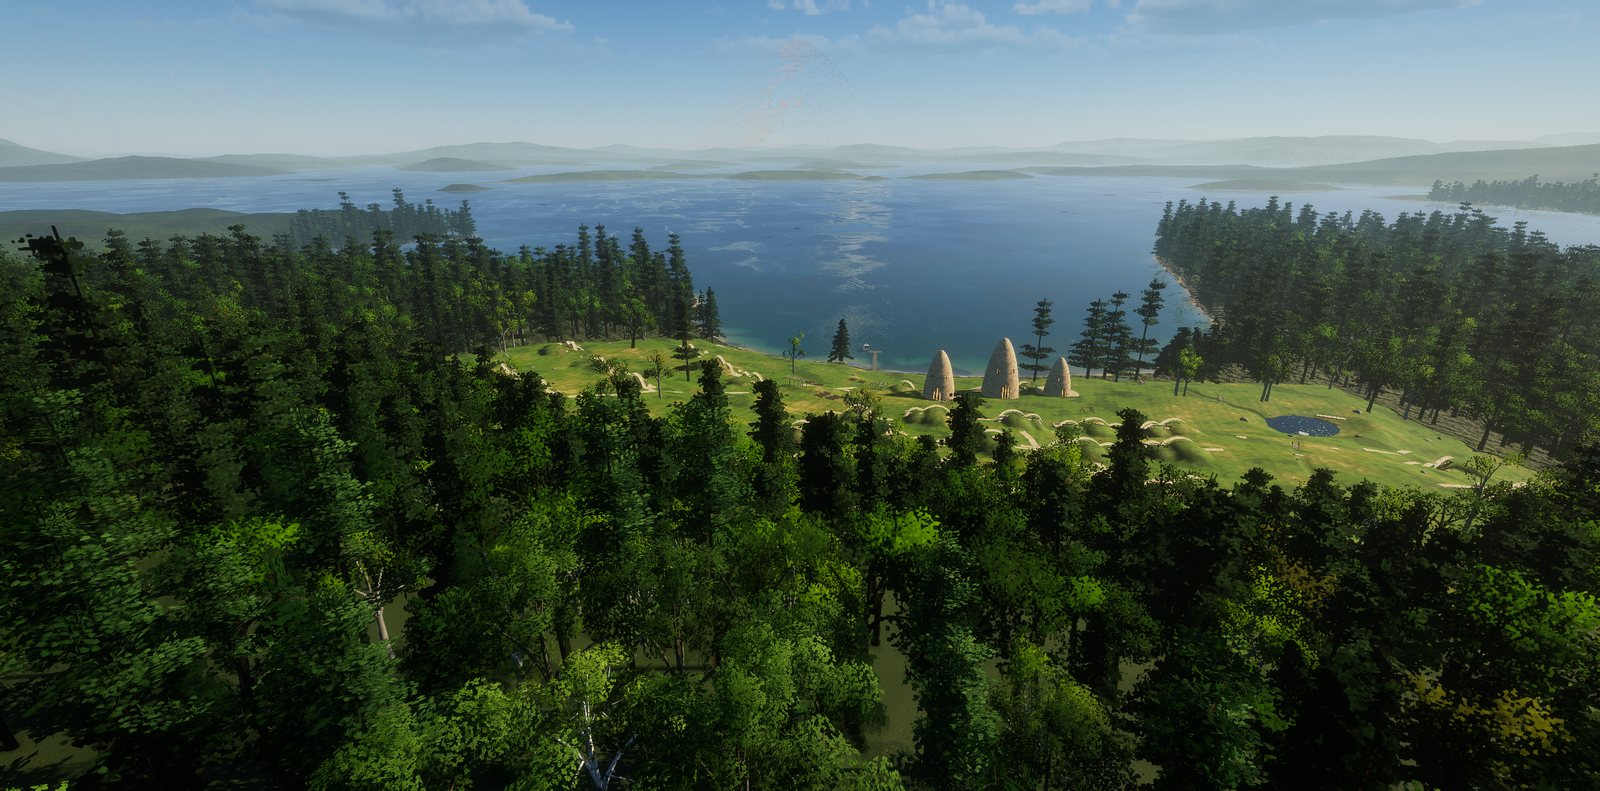
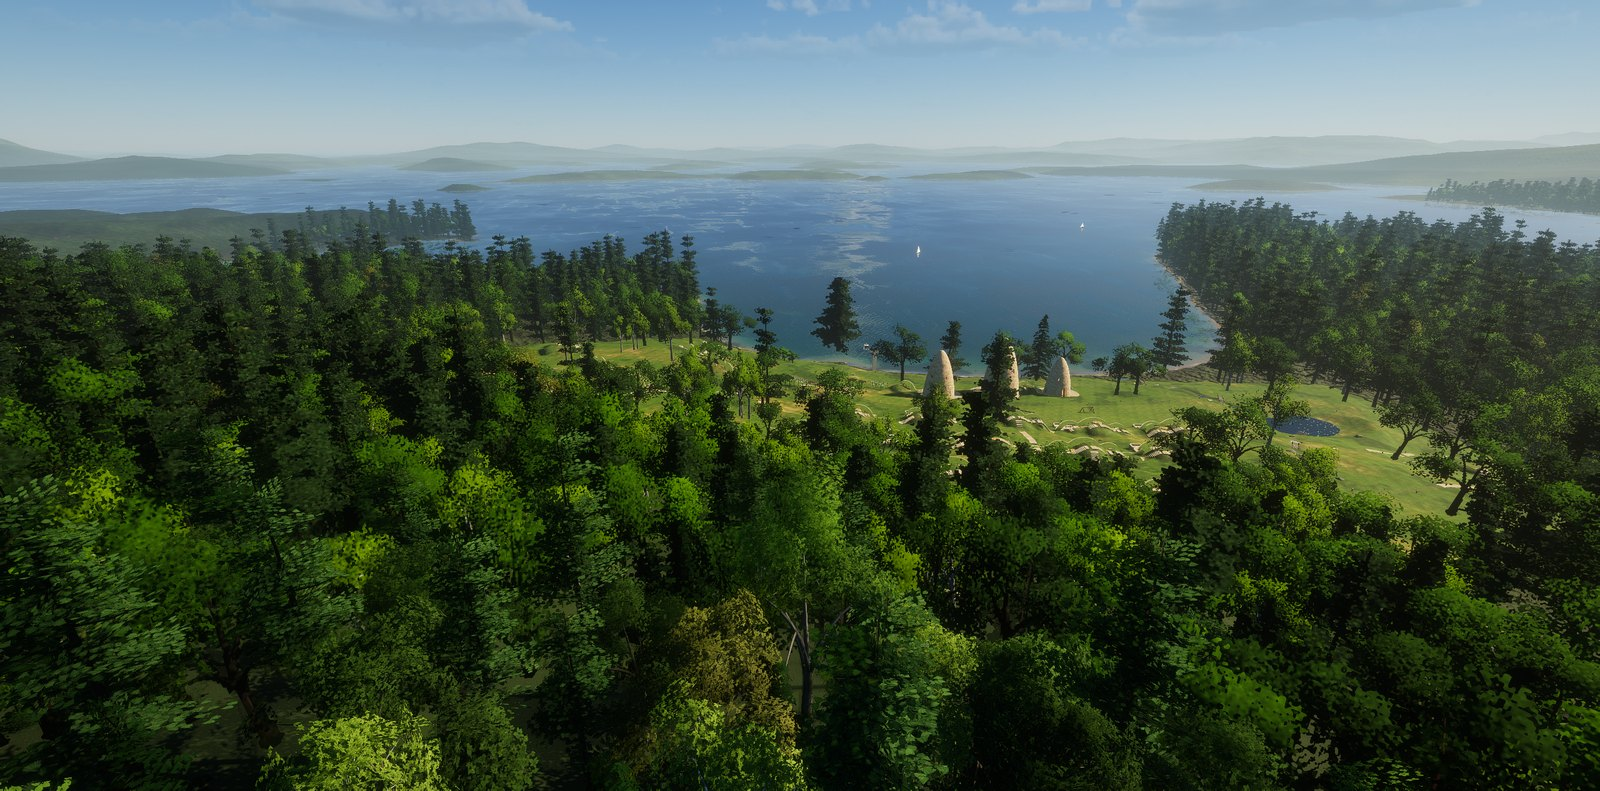
The village among trees; the green as a mown lawn
The layout image shows the homes standing among broad, rounded trees; ours stood
in a bare field. The clearing now grows clumps of open-grown oaks and maples with
birches and a few pines, allowed closer to the homes, the green kept open. Every
broadleaf crown carries about a third more leaf clusters so it reads as a solid,
rounded crown (about +1% GPU time over the benchmark views).

Designed vistas keep the corridors from the starting point to the three halls
free of trees, so the opening view still shows them.

The green was shaded like tall meadow, whose dark sward base made it a dark olive
carpet. The terrain now gets the green's outline and shades it as a dense, even
lawn with little relief; the lawn's grass blades are brighter to match.

Key art and README screenshots re-rendered.

diff --git a/src/world/Terrain.js b/src/world/Terrain.js
@@ -1,4 +1,4 @@
-import { Mesh, Vector2, Vector3 } from '../engine/index.js';
+import { Mesh, Vector2, Vector3, Vector4 } from '../engine/index.js';
 import { ShaderModule } from '../engine/gpu/Shader.js';
 import { CDLOD } from '../core/CDLOD.js';
 import { standard } from '../materials/Materials.js';
@@ -62,10 +62,16 @@ export class Terrain {
 				viewPos: [ 'vec3f', this.uViewPos.value ],
 				wetDarken: [ 'f32', 0.58 ],
 				gustOffset: [ 'vec2f', this.gustOffset ],
+				// the village's mown green (setLawn): outline, two points per vec4; x = point count;
+				// its bounds (x0, z0, x1, z1) padded by the edge's falloff
+				lawnPoly: [ 'vec4f[8]', new Float32Array( 32 ) ],
+				lawnInfo: [ 'vec4f', new Vector4() ],
+				lawnBox: [ 'vec4f', new Vector4( 1e9, 1e9, - 1e9, - 1e9 ) ],
 			},
 			attributes: { nodeData: 'vec4f' },
 		} );
 		this.params = { wetDarken: mat.uniforms.wetDarken };
+		this.lawnUniforms = { poly: mat.uniforms.lawnPoly, info: mat.uniforms.lawnInfo, box: mat.uniforms.lawnBox };
 		this.uViewPos = mat.uniforms.viewPos;
 
 		mat.vertex = /* wgsl */`
@@ -108,6 +114,27 @@ export class Terrain {
 		mat.defines.MATERIAL_SUN_MODULATION = this.sunShadow ? 1 : 0;
 		mat.surface = TERRAIN_SURFACE;
 		mat.needsUpdate = true;
+
+	}
+
+	// The village's mown green: [[x, z], ...] (up to 16 points), shaded as a dense, even lawn rather than
+	// tall meadow (its edge falls off over -3..+1.5 m, as Settlement.lawnAt).
+	setLawn( points ) {
+
+		const U = this.lawnUniforms, n = Math.min( points.length, 16 );
+		const poly = new Float32Array( 32 );
+		let x0 = Infinity, z0 = Infinity, x1 = - Infinity, z1 = - Infinity;
+		for ( let i = 0; i < n; i ++ ) {
+
+			const [ x, z ] = points[ i ];
+			poly[ i * 2 ] = x; poly[ i * 2 + 1 ] = z;
+			x0 = Math.min( x0, x ); z0 = Math.min( z0, z ); x1 = Math.max( x1, x ); z1 = Math.max( z1, z );
+
+		}
+
+		U.poly.value = poly;
+		U.info.value = new Vector4( n, 0, 0, 0 );
+		U.box.value = new Vector4( x0 - 2, z0 - 2, x1 + 2, z1 + 2 );
 
 	}
 
@@ -423,12 +450,34 @@ const TERRAIN_SURFACE = /* wgsl */`
 		let V = normalize( frame.cameraPos - p );
 		let NdV = sat( dot( N0, V ) );
 		let mt = terrainMeadowTone( macroA, macroB, slope, N0.z, dM.w * 0.65 + dN.w * 0.35, true );
+		// the village's mown green (Terrain.setLawn): signed distance to its outline (< 0 inside)
+		var lawnD = 1e3;
+		if ( xz.x > mat.lawnBox.x && xz.y > mat.lawnBox.y && xz.x < mat.lawnBox.z && xz.y < mat.lawnBox.w ) {
+			let n = u32( mat.lawnInfo.x );
+			var d2 = 1e9;
+			var inside = false;
+			for ( var i = 0u; i < n; i++ ) {
+				let j = select( i - 1u, n - 1u, i == 0u );
+				let va = mat.lawnPoly[ i >> 1u ]; let vb = mat.lawnPoly[ j >> 1u ];
+				let a = select( va.xy, va.zw, ( i & 1u ) == 1u );
+				let b = select( vb.xy, vb.zw, ( j & 1u ) == 1u );
+				let e = b - a; let w = xz - a;
+				let q = w - e * sat( dot( w, e ) / max( dot( e, e ), 1e-6 ) );
+				d2 = min( d2, dot( q, q ) );
+				if ( ( a.y > xz.y ) != ( b.y > xz.y ) && xz.x < ( b.x - a.x ) * ( xz.y - a.y ) / ( b.y - a.y ) + a.x ) { inside = !inside; }
+			}
+			lawnD = select( sqrt( d2 ), - sqrt( d2 ), inside );
+		}
+		let greenK = 1.0 - smoothstep( -3.0, 1.5, lawnD );
+		// mown: fresh, even green (a little mottled by the clover and the mower), no tussocks or straw
+		let mownTone = mix( ${ S( 0.28, 0.39, 0.13 ) }, ${ S( 0.35, 0.43, 0.16 ) }, smoothstep( 0.35, 0.65, dM.w * 0.6 + macroB * 0.4 ) )
+			* ( ( dN.w - 0.5 ) * 0.12 + 1.0 );
 		// clumps (1-3 m) and tussocks, blade-scale grain
 		let clump = dM.w * 0.6 + dN.y * 0.4;
 		// seen from afar the tussocks and their shadowed gaps are what makes tall grass read as
 		// grass (not lawn): the clump contrast grows with distance as the blades fade out
-		let clumpK = mix( 0.34, 0.95, smoothstep( 40.0, 140.0, camDist ) );
-		var lawn = mt.tone * ( ( clump - 0.5 ) * clumpK + 1.0 ) * ( ( dF.y - 0.4 ) * 0.22 + 1.0 );
+		let clumpK = mix( 0.34, 0.95, smoothstep( 40.0, 140.0, camDist ) ) * ( 1.0 - greenK * 0.75 );
+		var lawn = mix( mt.tone, mownTone, greenK ) * ( ( clump - 0.5 ) * clumpK + 1.0 ) * ( ( dF.y - 0.4 ) * 0.22 + 1.0 );
 		lawn = lawn * mix( 1.0, smoothstep( 0.25, 0.55, dN.y * 0.5 + dM.y * 0.5 ) * 0.35 + 0.72, smoothstep( 50.0, 160.0, camDist ) );
 		// grass combed along the wind: long streaks (anisotropic sample of the fbm channel)
 		// (comb and gust only where the lawn shows: not under full forest, sand or water)
@@ -441,7 +490,7 @@ const TERRAIN_SURFACE = /* wgsl */`
 		}
 		// seen from above the dark soil shows between the clumps; at grazing angles blade sides
 		// cover everything (lighter, more saturated)
-		let gapK = smoothstep( 0.3, 0.95, NdV ) * smoothstep( 0.62, 0.3, clump );
+		let gapK = smoothstep( 0.3, 0.95, NdV ) * smoothstep( 0.62, 0.3, clump ) * ( 1.0 - greenK );
 		lawn = mix( lawn, MEADOW_soil, gapK * 0.45 );
 		lawn = mix( lawn, terrainSaturation( lawn * 1.12, 1.15 ), smoothstep( 0.45, 0.1, NdV ) * 0.6 );
 		// travelling gusts flatten the grass: the paler blade backs show as waves (same gust
@@ -452,14 +501,16 @@ const TERRAIN_SURFACE = /* wgsl */`
 			lawn = mix( lawn, lawn * vec3f( 1.25, 1.22, 1.06 ) + 0.01, gust * 0.6 );
 		}
 		// bare trodden soil in places, sandy soil toward the beach
-		lawn = mix( lawn, ${ S( 0.4, 0.33, 0.23 ) }, smoothstep( 0.72, 0.84, dN.y + ( dM.y - 0.5 ) * 0.5 ) * 0.25 );
+		lawn = mix( lawn, ${ S( 0.4, 0.33, 0.23 ) }, smoothstep( 0.72, 0.84, dN.y + ( dM.y - 0.5 ) * 0.5 ) * 0.25 * ( 1.0 - greenK * 0.8 ) );
 		lawn = mix( lawn, ${ S( 0.60, 0.52, 0.38 ) }, sat( sp.x * 1.6 ) * smoothstep( 0.45, 0.62, dN.z + dM.y * 0.3 ) * 0.7 );
 		// inside the geometric grass field (GrassField) the ground is only seen between the blades:
 		// the shaded base of the sward, dark and brownish with dead leaves; it hands over to the
 		// sward's own look (above) where the blades thin out
 		let grassHere = smoothstep( 2.5, 4.5, h ) * ( 1.0 - smoothstep( 0.45, 0.85, jungleW ) ) * ( 1.0 - sat( sp.x * 1.6 ) );
 		let fieldK = ( 1.0 - smoothstep( ${ GRASS_FADE[ 0 ].toFixed( 1 ) }, ${ GRASS_FADE[ 1 ].toFixed( 1 ) }, length( p.xz - frame.cameraPos.xz ) ) ) * grassHere;
-		let swardBase = mix( mt.tone * 0.4, MEADOW_soil, 0.4 ) * ( ( dN.y - 0.45 ) * 0.6 + 1.0 ) * ( ( dF.y - 0.4 ) * 0.3 + 1.0 );
+		var swardBase = mix( mt.tone * 0.4, MEADOW_soil, 0.4 ) * ( ( dN.y - 0.45 ) * 0.6 + 1.0 ) * ( ( dF.y - 0.4 ) * 0.3 + 1.0 );
+		// a lawn is dense to the ground: between its short blades more green blades, not soil
+		swardBase = mix( swardBase, mownTone * ( ( dF.y - 0.4 ) * 0.25 + 0.82 ), greenK );
 		lawn = mix( lawn, swardBase, fieldK * 0.85 );
 		let litter = mix( ${ S( 0.24, 0.16, 0.09 ) }, ${ S( 0.38, 0.28, 0.16 ) }, dF.y );
 		var jungle = mix( ${ S( 0.13, 0.19, 0.06 ) }, litter, smoothstep( 0.42, 0.6, dN.y + ( dM.y - 0.5 ) * 0.3 ) );
@@ -595,8 +646,8 @@ const TERRAIN_SURFACE = /* wgsl */`
 			+ rill * 0.006 * rillK;
 		// seagrass canopy stands proud of the sand with a ragged scarp; rubble is knobbly
 		let seabedH = seagrassW * ( blades * 0.05 + 0.08 ) + rubbleW * ( dN.x * 0.07 + dF.x * 0.015 );
-		let groundH = dN.y * mix( 0.05, 0.035, jungleW ) + dF.y * 0.012 + dM.y * 0.045 + canopyH * canopyW * 2.5
-			+ clump * 0.12 * ( 1.0 - jungleW ) + comb * 0.03 * ( 1.0 - jungleW );
+		let groundH = ( dN.y * mix( 0.05, 0.035, jungleW ) + dF.y * 0.012 ) * ( 1.0 - greenK * 0.6 ) + dM.y * 0.045 + canopyH * canopyW * 2.5
+			+ ( clump * 0.12 + comb * 0.03 ) * ( 1.0 - jungleW ) * ( 1.0 - greenK * 0.8 );
 		let screeH = dN.z * 0.04 + dM.x * 0.06;
 		let dirtH = dN.z * 0.012 + dN.y * 0.01;
 		var hd = mix( mix( groundH, screeH, screeW ), dirtH, pathW );

diff --git a/src/world/vegetation/ForestScatter.js b/src/world/vegetation/ForestScatter.js
@@ -14,7 +14,8 @@ import { PINE_H, HEMLOCK_H } from './ConiferGeometry.js';
 //   shrubs       mountain laurel and lowbush blueberry in the forest gaps, hobblebush in the damp; and
 //                round the homes
 //   ferns        the forest floor (hay-scented and cinnamon ferns in drifts), the village's banks
-// In the village clearing: scattered birches, a few pines and oaks, shrubs and ferns along the homes.
+// In the village clearing: clumps of open-grown oaks and maples with broad, low crowns, birches, a few
+// pines; the mown green kept open; shrubs and ferns along the homes.
 //
 // Records: { x, y, z, s, sy, yaw, la, l, H, seed } as the instanced vegetation expects (VegInstances):
 // canopy trees l = sy, shrubs l = -sy; pines l = sy, hemlocks l = -sy (the impostors' group flag).
@@ -91,6 +92,21 @@ class Occupancy {
 
 }
 
+// inside one of the village's designed vistas (corridors kept free of trees)?
+function inVista( vistas, x, z ) {
+
+	for ( const v of vistas || [] ) {
+
+		const [ ax, az ] = v.from, ex = v.to[ 0 ] - ax, ez = v.to[ 1 ] - az;
+		const t = clamp( ( ( x - ax ) * ex + ( z - az ) * ez ) / ( ex * ex + ez * ez ), 0, 1 );
+		if ( Math.hypot( x - ax - ex * t, z - az - ez * t ) < v.w ) return true;
+
+	}
+
+	return false;
+
+}
+
 function scatter( rand, x0, z0, x1, z1, step, fn ) {
 
 	for ( let z = z0; z < z1; z += step ) for ( let x = x0; x < x1; x += step ) fn( x + rand() * step, z + rand() * step );
@@ -149,13 +165,15 @@ export function scatterForest( site, seed = 2026 ) {
 		if ( c.h < 0.35 ) return;
 		const stand = N.fbm( x / 140, z / 140, 3 ); // stands of one character
 		const patch = N2.fbm( x / 37, z / 37, 2 );
-		// in the open (the village clearing, the roofs, the green) only scattered trees
+		// in the open (the village clearing, the roofs) trees in clumps and groves with glades between
+		// (docs/REFERENCE.md: the village stands among trees); the mown green stays open but for its edges
 		const forest = 1 - smoothstep( 0.25, 0.75, c.open );
-		let p = 0.92 * forest + ( 1 - forest ) * 0.035 * smoothstep( - 0.2, 0.3, patch );
+		const lawn = site.inLawn ? site.inLawn( x, z ) : 0;
+		let p = 0.92 * forest + ( 1 - forest ) * 0.2 * smoothstep( - 0.3, 0.3, patch ) * ( 1 - lawn * 0.95 );
 		// thinner on the ledges and steep ground
 		p *= 1 - smoothstep( 0.3, 0.6, c.rock ) * 0.6 - smoothstep( 0.45, 0.62, c.slope ) * 0.5;
 		if ( rand() > p ) return;
-		if ( ! ok( x, z, forest > 0.5 ? 1.5 : 4 ) ) return;
+		if ( ! ok( x, z, forest > 0.5 ? 1.5 : 2.5 ) || inVista( site.vistas, x, z ) ) return;
 
 		// site affinities
 		const shoreK = 1 - smoothstep( 6, 45, c.shore );
@@ -166,8 +184,8 @@ export function scatterForest( site, seed = 2026 ) {
 		let wHard = 0.65 * ( 1 - shoreK * 0.5 ) * ( 1 - damp * 0.3 );
 		if ( forest < 0.5 ) {
 
-			// the clearing: birches above all, a few pines and oaks
-			wPine *= 0.5; wHem *= 0.08; wHard *= 1.3;
+			// the clearing: hardwoods above all, a few pines
+			wPine *= 0.3; wHem *= 0.05; wHard *= 1.6;
 
 		}
 
@@ -201,15 +219,17 @@ export function scatterForest( site, seed = 2026 ) {
 			// hardwoods: birch at the edges, on rocky ground and in the clearing; red oak on the dry slopes;
 			// maple and beech elsewhere
 			const edge = smoothstep( 0.1, 0.5, c.open ) * ( 1 - smoothstep( 0.6, 0.95, c.open ) );
-			const wB = 0.12 + edge * 1.2 + ( forest < 0.5 ? 1.4 : 0 ) + smoothstep( 0.2, 0.45, c.rock ) * 0.4;
-			const wO = 0.25 + dry * 0.5;
+			const open = forest < 0.5;
+			const wB = 0.12 + edge * 1.2 + ( open ? 0.35 : 0 ) + smoothstep( 0.2, 0.45, c.rock ) * 0.4;
+			const wO = 0.25 + dry * 0.5 + ( open ? 0.45 : 0 );
 			const wM = 0.45 + damp * 0.2;
-			const wE = 0.25;
+			const wE = open ? 0.1 : 0.25;
 			const v = rand() * ( wB + wO + wM + wE );
 			const sp = v < wB ? 2 : v < wB + wO ? 1 : v < wB + wO + wM ? 0 : 3;
 			const birch = sp === 2;
-			const s = ( birch ? 0.95 + rand() * 0.3 : 1.15 + rand() * 0.45 ) * ( forest < 0.5 && ! birch ? 1.1 : 1 );
-			const sy = ( birch ? 1.15 : 0.95 ) + rand() * 0.3;
+			// open-grown hardwoods spread wide and low
+			const s = ( birch ? 0.95 + rand() * 0.3 : 1.15 + rand() * 0.45 ) * ( open && ! birch ? 1.15 : 1 );
+			const sy = ( birch ? 1.15 : open ? 0.82 : 0.95 ) + rand() * ( open && ! birch ? 0.2 : 0.3 );
 			const r = 2.5 * s;
 			if ( ! occT.free( x, z, r, 1 ) ) return;
 			occT.add( x, z, r );
@@ -223,7 +243,7 @@ export function scatterForest( site, seed = 2026 ) {
 					const a = rand() * TAU, d = 1.6 + rand() * 1.4;
 					const bx = x + Math.cos( a ) * d, bz = z + Math.sin( a ) * d;
 					cover( site, bx, bz, c );
-					if ( ! ok( bx, bz, 2 ) ) continue;
+					if ( ! ok( bx, bz, 2 ) || inVista( site.vistas, bx, bz ) ) continue;
 					const s2 = s * ( 0.75 + rand() * 0.2 );
 					out.trees.push( { x: bx, y: site.groundY( bx, bz, 0.4 ) - 0.15, z: bz, s: s2, sy: sy * ( 0.95 + rand() * 0.1 ), yaw: rand() * TAU, la: rand() * TAU, l: sy, H: 12.5 * s2 * sy, seed: seedFor( 2, rand() ) } );
 					occ.add( bx, bz, 0.4 );

diff --git a/src/world/settlement/Plan.js b/src/world/settlement/Plan.js
@@ -158,6 +158,14 @@ export const ERRATICS = [
 	[ 410, - 260, 1.6 ], [ 250, - 380, 1.7 ], [ 500, - 290, 1.5 ], [ 328, - 360, 1.2 ], [ 562, - 300, 2.2 ], [ 448, - 260, 1.4 ],
 ];
 
+// Designed vistas: corridors kept free of trees (half-width w, metres), from where you first stand
+// (WORLD.start, above the first rows) down to each of the halls
+export const VISTAS = [
+	{ from: [ 290, - 400 ], to: [ 346, - 283 ], w: 10 },
+	{ from: [ 290, - 400 ], to: [ 373, - 293 ], w: 9 },
+	{ from: [ 290, - 400 ], to: [ 321, - 279 ], w: 8 },
+];
+
 export const DOCK = { x: 400.5, zStart: - 250, zEnd: - 214, width: 1.8, headWidth: 7, headDepth: 3.6, deck: 0.62 };
 
 // Small craft on the lake: two day sailers at anchor, a kayak drawn up in the cove, a rowboat at the dock

diff --git a/src/world/vegetation/GrassField.js b/src/world/vegetation/GrassField.js
@@ -846,8 +846,8 @@ function createGrassMaterial( field ) {
 	let ao = mix( 0.32, 1.0, smoothstep( 0.0, 0.75, hf ) );
 	// dune grass: olive base, straw tips; meadow: the terrain's meadow tone, dark and brownish
 	// (dead leaf sheaths) at the base, lighter / sun-bleached towards the tips
-	let duneBase = mix( ${ C( 0x2f4a1a ) }, ${ C( 0x3d5a20 ) }, rnd );
-	let duneTip = mix( ${ C( 0x6a8c32 ) }, ${ C( 0x86a33e ) }, rnd );
+	let duneBase = mix( ${ C( 0x3a5a24 ) }, ${ C( 0x48652a ) }, rnd );
+	let duneTip = mix( ${ C( 0x7a9a40 ) }, ${ C( 0x90ad4c ) }, rnd );
 	let tone = in.vs.vVegGrassTone.xyz * ( rnd * 0.34 + 0.83 );
 	let lushBase = mix( tone * 0.5, VEG_MEADOW_SOIL, 0.3 );
 	let tipDry = in.vs.vVegGrassTone.w * 0.4 + smoothstep( 0.8, 1.0, rnd ) * 0.35;

diff --git a/src/App.js b/src/App.js
@@ -154,6 +154,7 @@ export class App {
 		this.terrainGPU = new TerrainGPU( this.terrainData, this.shoreField );
 		// terrain and rocks apply the heightfield sun shadow (long hill shadows) in their own lighting
 		this.terrain = new Terrain( { scene, terrainData: this.terrainData, terrainGPU: this.terrainGPU, renderer } );
+		if ( this.village ) this.terrain.setLawn( this.village.lawnPolygon );
 		// the land beyond the walkable area, to the horizon
 		this.farTerrain = new FarTerrain( { scene, terrainData: this.terrainData, terrainGPU: this.terrainGPU } );
 		// granite: shore boulders, erratics, talus, cobbles on the lake bed

diff --git a/src/world/vegetation/PlantGeometry.js b/src/world/vegetation/PlantGeometry.js
@@ -748,7 +748,7 @@ export function buildTreeNear( seed = 21, b = new GeoBuilder() ) {
 	TREE_LOBES.forEach( ( L, i ) => {
 
 		const { cards: cs, tips } = clumpCards( L, i, {
-			clumps: Math.round( 3.9 * L[ 3 ] ), clumpR: 0.82, cardsPer: 3, size: 1.45, crownC, crownR, rand, flexFn: flex, hScale: H, part: 1, flatten: 0.72,
+			clumps: Math.round( 5.2 * L[ 3 ] ), clumpR: 0.86, cardsPer: 3, size: 1.55, crownC, crownR, rand, flexFn: flex, hScale: H, part: 1, flatten: 0.72,
 		} );
 		cards.push( ...cs );
 		// short twigs carrying each clump (from part way along the lobe's limb, not one point);

diff --git a/src/world/Vegetation.js b/src/world/Vegetation.js
@@ -105,6 +105,7 @@ export class Vegetation {
 		// the village green is mown lawn
 		if ( village && village.lawnAt ) site.inLawn = ( x, z ) => village.lawnAt( x, z );
 		if ( village && village.plantings ) site.plantings = village.plantings;
+		if ( village && village.vistas ) site.vistas = village.vistas;
 		this.site = site;
 		const recs = scatterForest( site );
 		this.records = recs;

diff --git a/src/world/Settlement.js b/src/world/Settlement.js
@@ -272,6 +272,20 @@ export class Settlement {
 
 	}
 
+	// corridors kept free of trees: [{ from: [x, z], to: [x, z], w }] (PLAN.VISTAS)
+	get vistas() {
+
+		return PLAN.VISTAS;
+
+	}
+
+	// the mown green's outline [[x, z], ...] (the terrain shades it as lawn)
+	get lawnPolygon() {
+
+		return PLAN.GREEN;
+
+	}
+
 	// 0..1: on the mown green (the plants' lawn)
 	lawnAt( x, z ) {
 

diff --git a/docs/DECISIONS.md b/docs/DECISIONS.md
@@ -69,9 +69,17 @@ Each is easy to reverse; the file or setting is named.
 - **Forest mix.** Eastern white pine (shores, ledges, emergent), eastern hemlock (ravines, north slopes, by
   the water), maple, red oak, beech and paper birch; mountain laurel, hobblebush and lowbush blueberry; ferns.
   Placement rules: `src/world/vegetation/ForestScatter.js`.
-- **The village clearing.** The homes stand in an open meadow (`CLEARING` in `Plan.js`) with scattered birches,
-  pines and oaks, as in the references; the forest closes in at a ragged edge.
+- **The village clearing.** The homes stand among trees, as in the layout image: clumps and groves of
+  open-grown red oaks and maples with broad, low crowns, birches in twos and threes, a few pines, glades of
+  meadow between (`CLEARING` in `Plan.js`, rules in `ForestScatter.js`); trees keep ~4.5 m off the homes and
+  the forest closes in at a ragged edge. The mown green stays open but for its edges.
+- **Designed vistas.** Corridors from the starting point down to each hall are kept free of trees, so the
+  opening view (and the loading-screen key art) shows all three halls (`VISTAS` in `Plan.js`).
+- **Fuller crowns.** Every broadleaf tree carries ~1.3x the leaf clusters it had in Tidewater (the crowns read
+  as solid and rounded, like the references' trees); about +2 ms over the nine benchmark views together.
 - **Open-grown pines keep their low limbs**; pines in the forest have shed their lower third.
+- **The green.** Shaded as a dense mown lawn (fresh, even green to the ground, no tussocks, little relief)
+  instead of tall-meadow sward, which made it read as dark olive carpet (`Terrain.setLawn`).
 - **Ground flora.** Knee-high meadow grass on the roofs and in the clearing, a short mown lawn on the green,
   drifts of lupine (purple-blue, some pink and white) through the meadows and crowding round the homes, daisies
   and clover in the lawn. Tidewater's tropical grass kinds were repurposed (dune grass → lawn, sea oats →
@@ -97,6 +105,12 @@ Each is easy to reverse; the file or setting is named.
 - The boat is Tidewater's diesel fishing boat; the bible would want something quieter (sail or electric).
 - Songbirds still sing from Tidewater's samples (generic woodland birds; no New England species).
 - The sound bed is Tidewater's (surf is near silent at the lake's wave height; the birds are generic).
+
+## Known issues
+
+- Reference shots taken in one batch can show a haze of dark specks in the sky in a view that follows another
+  (most after an aerial view); single views are clean, and the running game has not shown it. Cause not yet
+  found (not the wildlife, haze or spray). The README screenshots are shot one batch per aerial view.
 
 ## Performance
 

diff --git a/README.md b/README.md
@@ -43,7 +43,9 @@ water, terrain, vegetation, lighting and post-processing it reuses and adapts.
 
 **The woods and meadows**
 - Eastern white pines and hemlocks, maples, red oaks, beeches and paper birches, mountain laurel, hobblebush
-  and blueberry, ferns on the forest floor; meadow grass with lupines and daisies in the village, a mown green.
+  and blueberry, ferns on the forest floor.
+- In the village, groves of broad open-grown oaks and maples with birches between the homes, meadow grass with
+  lupines and daisies, and a mown green.
 
 **The lake**
 - Common loons out on the open water, in pairs and alone: swimming, peering, diving and surfacing somewhere
